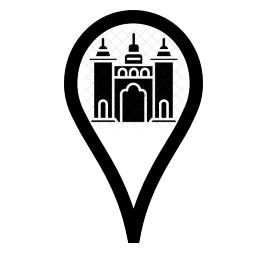
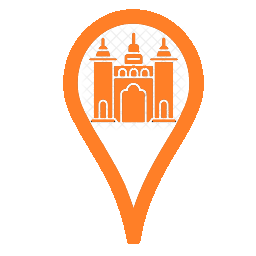
Objectifs Finis: background mis aux icônes, message d'ajout du lieu mis dans un cadre au milieu de l'écran, les lieux peuvent être supprimés des favoris

Changed region(s): [[0.2188, 0.0312, 0.8125, 0.9688]]

diff --git a/pages/map/mapPage.tsx b/pages/map/mapPage.tsx
@@ -43,13 +43,7 @@ type Category =
 
 
 
-  const categoryColorMapping: Record<Category, string> = {
-    'Musée': 'blue',
-    'Patrimoine Exceptionnel': 'green',
-    'Point de vue': 'red',
-    'Borne de recharge': 'purple',
-    // Add more categories and colors as needed
-  };
+  
 
 const MapPage = () => {
 
@@ -557,7 +551,7 @@ const MapPage = () => {
         style={{
           width: 40,
           height: 40,
-          tintColor: categoryColorMapping[place.categorieApi] || 'black',
+          //tintColor: categoryColorMapping[place.categorieApi] || 'black',
         }}
       />
     </Marker>
@@ -744,6 +738,13 @@ const MapPage = () => {
             </TouchableOpacity>
           </View>
 
+          {statusMessage && (
+  <View style={[styles.statusMessageContainer, { backgroundColor: 'midnightblue' }]}>
+    <Text style={styles.statusMessageText}>{statusMessage}</Text>
+  </View>
+)}
+
+
           {statusMessage ? (
             <Text
               style={{
@@ -762,7 +763,32 @@ const MapPage = () => {
 
 const {width, height} = Dimensions.get('window');
 
+const MessageDisplay = ({ message, color }) => (
+  <View style={[styles.statusMessageContainer, { backgroundColor: color }]}>
+    <Text style={styles.statusMessageText}>{message}</Text>
+  </View>
+);
+
+
 const styles = StyleSheet.create({
+
+  statusMessageContainer: {
+    position: 'absolute',
+    top: '50%',
+    left: '50%',
+    paddingHorizontal: 20,
+    paddingVertical: 10,
+    borderRadius: 10,
+    transform: [{ translateX: -width * 0.3 }, { translateY: -height * 0.3 }],
+    
+  },
+  statusMessageText: {
+    color: 'white',
+    fontSize: 16,
+    textAlign: 'center',
+  },
+  
+  
   container: {
     flex: 1,
     backgroundColor: 'blanchedalmond',

diff --git a/pages/myJourney/MyJourney.tsx b/pages/myJourney/MyJourney.tsx
@@ -217,7 +217,7 @@ const MyJourney = (): JSX.Element => {
           if (response.status === 200) {
             console.log('Lieu supprimé des favoris avec succès');
             setJourneyData((prevJourney) =>
-             prevJourney.filter((favorite) => favorite.id !== idToDelete)
+             prevJourney.filter((favorite) => favorite.place.id !== idToDelete)
         );
 
             storeData(journeyData);
@@ -260,7 +260,7 @@ const MyJourney = (): JSX.Element => {
             {journeyMessage ? (
               <Text style={{textAlign: 'center'}}>{journeyMessage}</Text>
             ) : journeyData.length === 0 ? (
-              <Text>Veuillez attendre que vos données se chargent...</Text>
+              <Text>  Veuillez attendre.</Text>
             ) : (
               
               journeyData.map((item, index) => (
@@ -268,7 +268,7 @@ const MyJourney = (): JSX.Element => {
                   <Text>{item.place.name}</Text>
                   <Text
                     style={styles.deleteButton}
-                    onPress={() => handleDeletePlace(item.id)}>
+                    onPress={() => handleDeletePlace(item.place.id)}>
                     X
                   </Text>
                 </View>

diff --git a/types/point-of-interest.ts b/types/point-of-interest.ts
@@ -8,6 +8,6 @@ export type PointOfInterest = {
     categorie: string;
     adresse: string;
     newId: string; 
-    placeId: string;
+    id: string;
   };
 };
